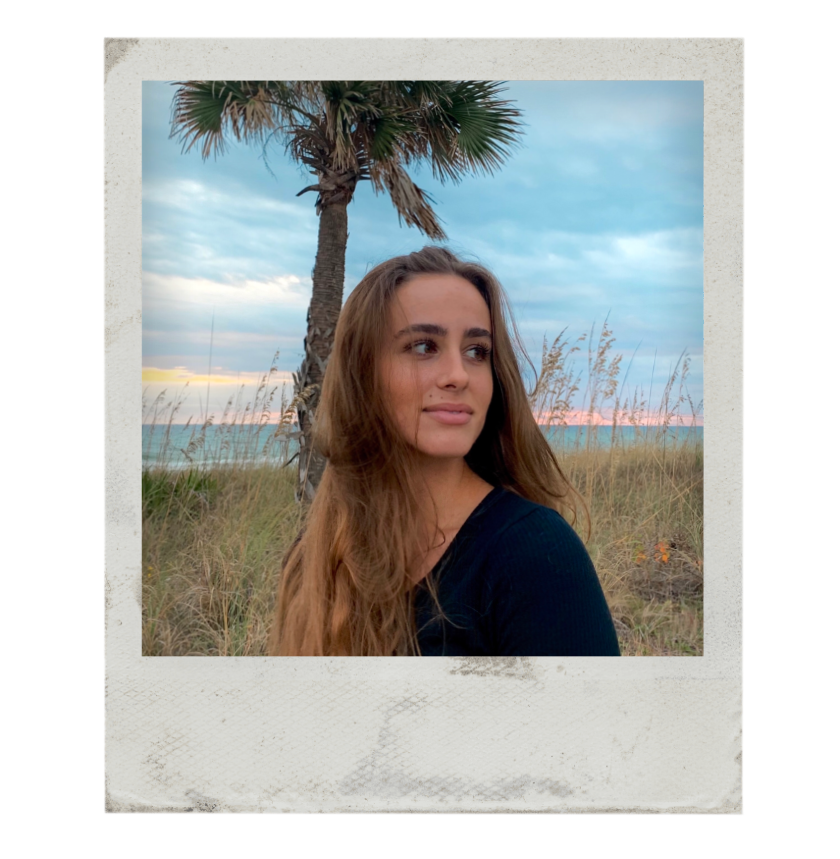
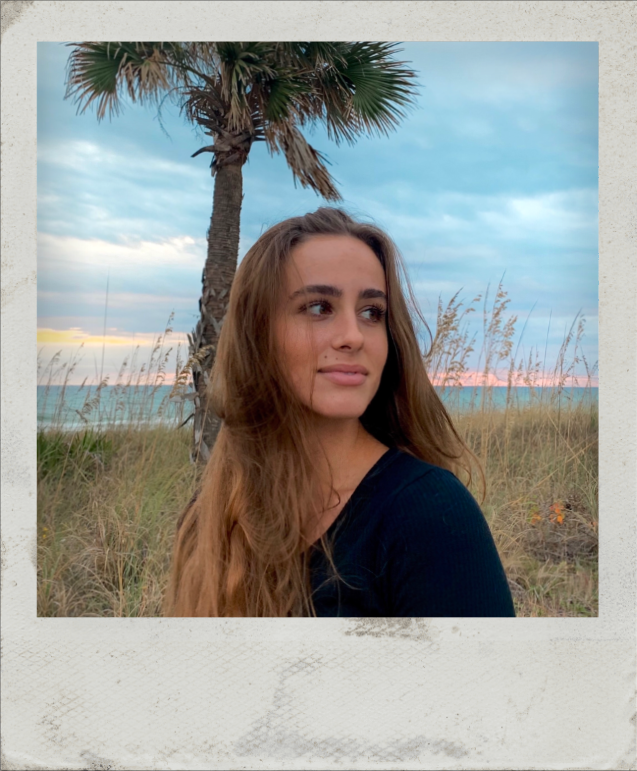
made the leftside home page as responsive as possible while keeping the layout. implemented the grid.

diff --git a/src/pages/Home.jsx b/src/pages/Home.jsx
@@ -126,188 +126,92 @@ function Home() {
         // SM_SCREENS: sm:flex-col
         // MD_SCREENS: md:flex-col
         // LG_SCREENS: lg:flex-row
-        // XL_SCREENS: xl:flex-row">
+        // XL_SCREENS: xl:flex-row ">
 
-            {/* LEFT SIDE */}
+            {/* LEFT SIDE GRID */}
             <div className="
-            // ALL_SCREENS: relative transition-all left-0 top-0 duration-300 ease-in-out
+            // ALL_SCREENS: relative transition-all left-0 top-0 duration-300 ease-in-out grid grid-cols-12 grid-rows-12
             // XS_SCREENS: w-full min-h-screen max-h-screen
-            // SM_SCREENS: sm:w-full sm:min-h-screen sm:max-h-screen
-            // MD_SCREENS: md:w-full md:min-h-screen md:max-h-screen
             // LG_SCREENS: lg:w-1/2 lg:h-full
             // XL_SCREENS: xl:w-1/2 xl:h-full">
 
-                <div class="
-                // ALL_SCREENS: grid w-full min-h-screen max-h-screen
-                // XS_SCREENS: grid-cols-2 grid-rows-4
-                // SM_SCREENS: sm:bg-slate-500 sm:grid-cols-2 sm:grid-rows-3
-                // MD_SCREENS:
-                // LG_SCREENS: lg:
-                // XL_SCREENS: xl:
-                 ">
+                {/* HEY SQUARE CONTAINER */}
+                <div className='flex items-center gaegu-regular rounded-md shadow-md font-black relative bg-brown-texture z-20 w-full h-full text-xl justify-center pb-1 
+                row-start-3 row-end-4 col-start-3 col-end-8
+                sm:row-start-4 sm:row-end-5 sm:justify-normal sm:top-3
+                md:row-end-6 md:col-end-9 md:h-2/3 md:col-start-4 md:text-2xl md:right-5
+                lg:col-start-3 lg:col-end-8 lg:row-end-5 lg:h-full lg:right-3
+                xl:col-start-3'>
+                      
+                    <p className='w-3/4 flex justify-center
+                    md:w-4/5
+                    lg:pl-[1.5vw] lg:w-3/4'>
+                        Hey there!
+                    </p>  
+                       
+                </div>
+                
+                {/* PIC OF ME CONTAINER */}
+                <div className='z-20 flex justify-end h-full w-full relative items-start rotate-1 
+                row-start-4 row-end-8 col-start-4 col-end-11 
+                sm:row-start-3 sm:row-end-8 sm:col-start-6 sm:top-4
+                md:row-end-8 md:top-7
+                lg:col-start-5 lg:col-end-11 lg:h-5/6 lg:left-5
+                xl:col-start-6 xl:col-end-11 xl:row-end-9'>
 
-                    {/* HEY SQUARE CONTAINER */}
-                    <div class=" 
-                    // ALL_SCREENS: bg-amber-50 relative
-                    // XS_SCREENS: col-start-1 col-end-3
-                    // SM_SCREENS: sm:col-start-1 sm:col-end-2
-                    // MD_SCREENS: md:
-                    // LG_SCREENS: lg:
-                    // XL_SCREENS: xl:">
-                        {/* HEY SQUARE */}
-                        <div class="
-                        // ALL_SCREENS:
-                        // XS_SCREENS:
-                        // SM_SCREENS: sm:
-                        // MD_SCREENS: md:
-                        // LG_SCREENS: lg:
-                        // XL_SCREENS: xl:
-                        absolute w-full h-full z-10 bg-yellow-800"></div>
-                    </div>
+                    {/* container to keep tape element visually stuck to top of image */}
+                    <div className='h-full relative '>
 
-                    {/* PIC OF ME CONTAINER */}
-                    <div class="
-                    // ALL_SCREENS: relative flex items-center justify-center
-                    // XS_SCREENS: col-start-1 col-end-3 row-start-2 row-end-4
-                    // SM_SCREENS: sm:col-start-2 sm:col-end-3 sm:row-start-1 sm:row-end-3
-                    // MD_SCREENS: md:
-                    // LG_SCREENS: lg:
-                    // XL_SCREENS: xl:">
                         {/* PIC OF ME */}
-                        <img src="/assets/polaroid.png" alt="polaroid" className='
-                        // ALL_SCREENS:
-                        // XS_SCREENS:
-                        // SM_SCREENS: sm:
-                        // MD_SCREENS: md:
-                        // LG_SCREENS: lg:
-                        // XL_SCREENS: xl:
-                        z-20 absolute h-auto max-h-[90%] max-w-auto top-[] 
-                        ' />
-                        
-                    </div>
+                        <img src='/assets/polaroid.png' alt='polaroid' className='max-h-full w-auto object-contain drop-shadow-lg'></img> 
 
-                    {/* WHITE SQUARE CONTAINER */}
-                    <div class="
-                    // ALL_SCREENS: bg-amber-50 relative
-                    // XS_SCREENS: col-start-1 col-end-2 row-start-2 row-end-4
-                    // SM_SCREENS: sm:col-start-1 sm:col-end-2 sm:row-start-2 sm:row-end-4
-                    // MD_SCREENS: md:
-                    // LG_SCREENS: lg:
-                    // XL_SCREENS: xl:">
-                        {/* WHITE SQUARE */}
-                        <div class="
-                        // ALL_SCREENS:
-                        // XS_SCREENS:
-                        // SM_SCREENS: sm:
-                        // MD_SCREENS: md:
-                        // LG_SCREENS: lg:
-                        // XL_SCREENS: xl:
-                        absolute h-full w-full z-10  bg-slate-300"></div>
-                    </div>
+                        {/* SMALL TAPE DECORATION */}
+                        <img src="/assets/small-tape.png" alt="Tape" className="
+                        absolute -top-[7%] left-1/2 -translate-x-1/2 w-2/5 rotate-[8deg] z-30 drop-shadow-sm
+                        "/>
 
-                    {/* FULL STACK SQUARE CONTAINER */}
-                    <div class="
-                    // ALL_SCREENS: bg-amber-50 relative 
-                    // XS_SCREENS: col-start-2 col-end-3 row-start-4 row-end-5
-                    // SM_SCREENS: sm:col-start-2 sm:col-end-3 sm:row-start-3 sm:row-end-4
-                    // MD_SCREENS: md:
-                    // LG_SCREENS: lg:
-                    // XL_SCREENS: xl:">
-                        {/* FULL STACK SQUARE */}
-                        <div class="
-                        // ALL_SCREENS:
-                        // XS_SCREENS:
-                        // SM_SCREENS: sm:
-                        // MD_SCREENS: md:
-                        // LG_SCREENS: lg:
-                        // XL_SCREENS: xl:
-                        absolute top-0 left-0 w-full bottom-4 h-full z-20  bg-green-800"></div>
                     </div>
-
-                    
                 </div>
 
-
-                {/* HEY SQUARE */}
-                {/* <p className="
-                // ALL_SCREENS:_SCREENS: flex items-center gaegu-regular rounded-md shadow-md font-black absolute bg-brown-texture z-30
-                // SM_SCREENS: w-[60vw] h-[10%] text-[5vw] top-[18.5vh] right-[27vw] justify-center pb-1
-                // MD_SCREENS: md:w-[45vw] md:h-[10%] md:text-[4vw] md:top-[22vh] md:right-[40vw] md:justify-normal md:pl-20 md:pb-0
-                // LG_SCREENS: lg:w-[20vw] lg:h-[8%] lg:text-[1.8vw] lg:top-[29vh] lg:right-[23vw] lg:pl-11 lg:justify-normal
-                // XL_SCREENS: xl:w-[25vw] xl:h-[8%] xl:text-[1.8vw] xl:top-[28%] xl:right-[34%] xl:pl-16 xl:justify-normal ">
-                    Hey there!
-                </p> */}
-                
-                {/* PIC OF ME */}
-                {/* <div style={{ backgroundImage: "url('/assets/polaroid.png')" }} className="
-                // ALL_SCREENS: absolute aspect-[3/4] bg-cover bg-center bg-no-repeat z-30 rotate-2 drop-shadow-md
-                // SM_SCREENS: h-[37%] max-h-[37vh] bottom-[37%] right-[15%]
-                // MD_SCREENS: md:h-[45%] md:max-h-[45vh] md:bottom-[33%] md:right-[15%]
-                // LG_SCREENS: lg:w-[40%] lg:bottom-[39%] lg:right-[18%] lg:max-h-[19.5rem] lg:h-auto
-                // XL_SCREENS: xl:w-[33%] xl:min-w-[14rem] xl:bottom-[39%] xl:right-[17%] xl:max-w-[15rem] xl:h-auto">
-
-                    {/* SMALL TAPE DECORATION */}
-                    {/* <img src="/assets/small-tape.png" alt="Tape" className="
-                    // ALL_SCREENS: drop-shadow-sm absolute -translate-x-1/2 z-10 
-                    // SM_SCREENS: w-[22vw] right-[-30%] rotate-[50deg] top-3
-                    // MD_SCREENS: md:w-[14vw] md:right-[5%] md:rotate-[8deg] md:-top-2
-                    // LG_SCREENS: lg:w-[7.5vw] lg:left-1/2 lg:rotate-[8deg] lg:-top-2
-                    // XL_SCREENS: xl:w-[7.5vw] xl:left-1/2 xl:rotate-[8deg] xl:-top-2"/>
-
-                </div> */}
-
-                {/* WHITE INTRODUCTORY SQUARE CONTAINER */}
-                {/* <div className="
-                // ALL_SCREENS: gaegu-regular -rotate-1 z-20 relative bg-white-texture shadow-md rounded-md flex
-                // SM_SCREENS: w-[60vw] h-[35vh] top-[40vh] left-[13vw]
-                // MD_SCREENS: md:w-[60vw] md:h-[35vh] md:top-[37vh] md:left-[13vw]
-                // LG_SCREENS: lg:w-[30vw] lg:h-[40vh] lg:top-[40vh] lg:left-[7vw]
-                // XL_SCREENS: xl:w-[30vw] xl:h-[40vh]] xl:top-[40vh] xl:left-[8vw]">
+                {/* WHITE INTO SQUARE CONTAINER CONTAINER */}
+                <div className='gaegu-regular -rotate-1 z-10 relative bg-white-texture shadow-md rounded-md flex h-full self-start
+                row-start-7 row-end-11 col-start-3 col-end-9 
+                sm:row-start-6 sm:col-end-8
+                md:w-5/6
+                lg:col-start-3 lg:col-end-9 lg:w-full lg:right-3
+                '>
 
                     {/* LEFT TAPE */}
-                    {/* <img src="/assets/long-tape.png" className="
-                    // ALL_SCREENS: absolute z-30 rotate-[97deg] drop-shadow-sm
-                    // SM_SCREENS: w-[58%] bottom-[8.5rem] -left-[29%]
-                    // MD_SCREENS: md:w-[40%] md:bottom-[5.5rem] md:-left-[20%]
-                    // LG_SCREENS: lg:w-[40%] lg:bottom-[6.5rem] lg:-left-[20%]
-                    // XL_SCREENS: xl:w-[40%] xl:bottom-[6.5rem] xl:-left-[20%]"/> */}
+                    <img src="/assets/long-tape.png" className="
+                    // ALL_SCREENS: absolute z-30 rotate-[97deg] drop-shadow-sm w-3/4 max-w-[140px] bottom-[6rem] -translate-x-1/2"/>
 
                     {/* GREETING TEXT */}
-                    {/* <div className='w-full h-full flex justify-center items-center'>
-                        <p className='
-                        // ALL_SCREENS: font-black absolute text-center flex
-                       
-                        // MD_SCREENS: md:text-[3vh] md:top-auto md:left-auto md:w-[45%] md:h-auto
-                        // LG_SCREENS: lg:text-[1.5vw] lg:top-[2.2rem] lg:ml-0 lg:right-auto lg:left-[4vw] lg:w-[27%] lg:h-[40%] lg:block
-                        // XL_SCREENS: xl:text-[1.4vw] xl:top-[6vh] xl:left-[4vw] xl:right-auto xl:w-[35%] xl:h-[35%] xl:block'>
-                            It's nice to meet you, my name is <br className='hidden'/> Breeanna.
-                        </p>
-                    </div> */}
+                    <p className='text-[clamp(.8rem,3.7vw,1rem)] font-black text-center flex leading-relaxed w-full h-1/3 px-10 self-center items-start 
+                     sm:h-1/2 sm:text-lg sm:ml-[5vw] sm:w-full sm:pr-[40%] sm:pl-0 sm:items-center sm:self-start
+                     md: md:px-14 md:mx-0  md:w-full
+                     lg:pl-8 lg:pr-28 lg:text-base
+                     xl:w-2/5 xl:px-0 xl:ml-[3.5vw] xl:text-lg xl:mt-3'>
+                        It's nice to meet you, my name is Breeanna.
+                    </p>
+                        
+                </div>
 
-                    {/* // SM_SCREENS: text-[3.5vw] bottom-[10%] left-[12vw] w-[60%] h-[20%] */}
-
-                    {/* GREEN DEV TITLE SQUARE */}
-                    {/* <div className='
-                        // ALL_SCREENS: z-20 rounded-md bg-green-texture shadow-md absolute rotate-1
-                        // SM_SCREENS: w-[63vw] h-[30%] top-[33vh] -right-[17%]
-                        // MD_SCREENS: 
-                        // LG_SCREENS: lg:w-[31vw] lg:h-[32%] lg:top-[23vh] lg:-right-[16%]
-                        // XL_SCREENS: xl:w-[101%] xl:h-[32%]] xl:top-[57%] xl:-right-[13%]'>
-                        <p className='
-                            // ALL_SCREENS: text-black font-black gaegu-regular flex justify-center items-center h-full
-                            // SM_SCREENS: text-[4vw]
-                            // MD_SCREENS:
-                            // LG_SCREENS: lg:text-[1.8vw]
-                            // XL_SCREENS: xl:text-[1.8vw]'>
-                            I'm a <span className='mx-[3%] underline'>full-stack</span> web developer.
-                        </p>
-                    </div>
-
-                </div> */}
-
-                
+                {/* FULL STACK GREEN SQUARE CONTAINER */}
+                <div className='bg-green-texture z-30 rounded-md shadow-md rotate-1 flex items-center text-center px-5 text-black font-black gaegu-regular text-[clamp(.8rem,3.7vw,1.1rem)]
+                relative -top-4
+                row-start-10 row-end-11 col-start-4 col-end-11
+                sm:row-start-8 sm:row-end-10 sm:col-start-4 sm:top-4 sm:h-3/4 sm:self-end sm:text-xl
+                md:col-end-10
+                lg:col-start-4 lg:col-end-12 lg:right-4 lg:h-4/5 
+                xl:col-start-4 xl:w-[95%] xl:top-8 xl:text-2xl'>
+                    
+                    <p className='w-full'>I'm a <span className='mx-[1%] underline'>full-stack</span> web developer.</p>
+                        
+                </div>
                 
             </div>
+
+            
 
 
             {/* RIGHT SIDE */}
